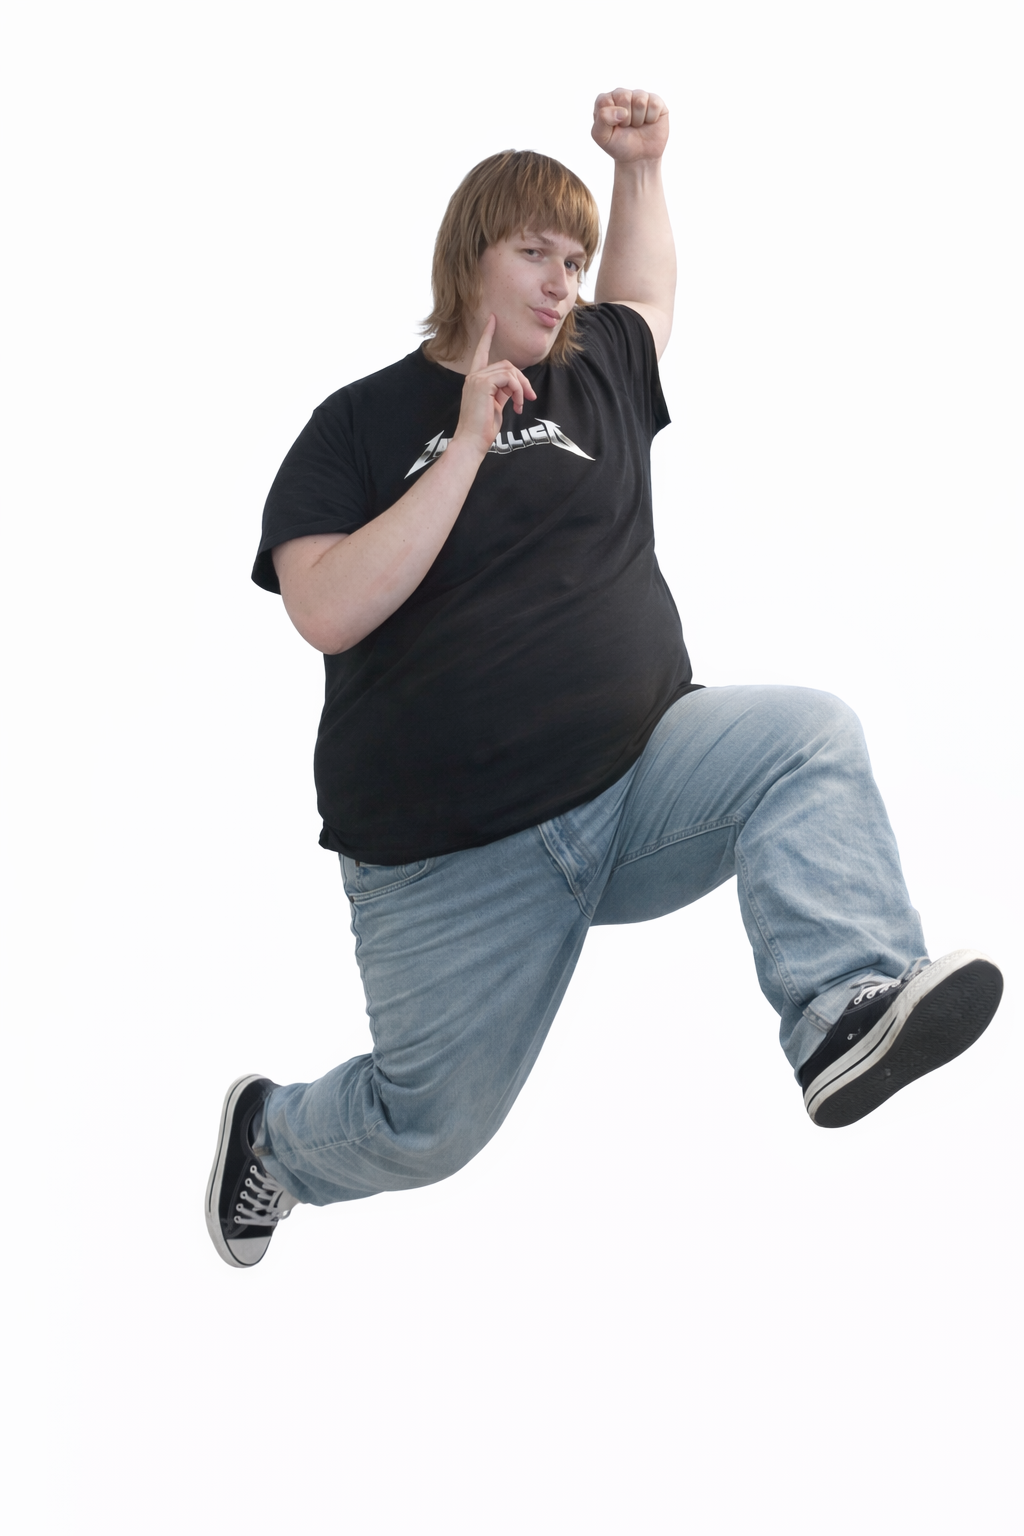
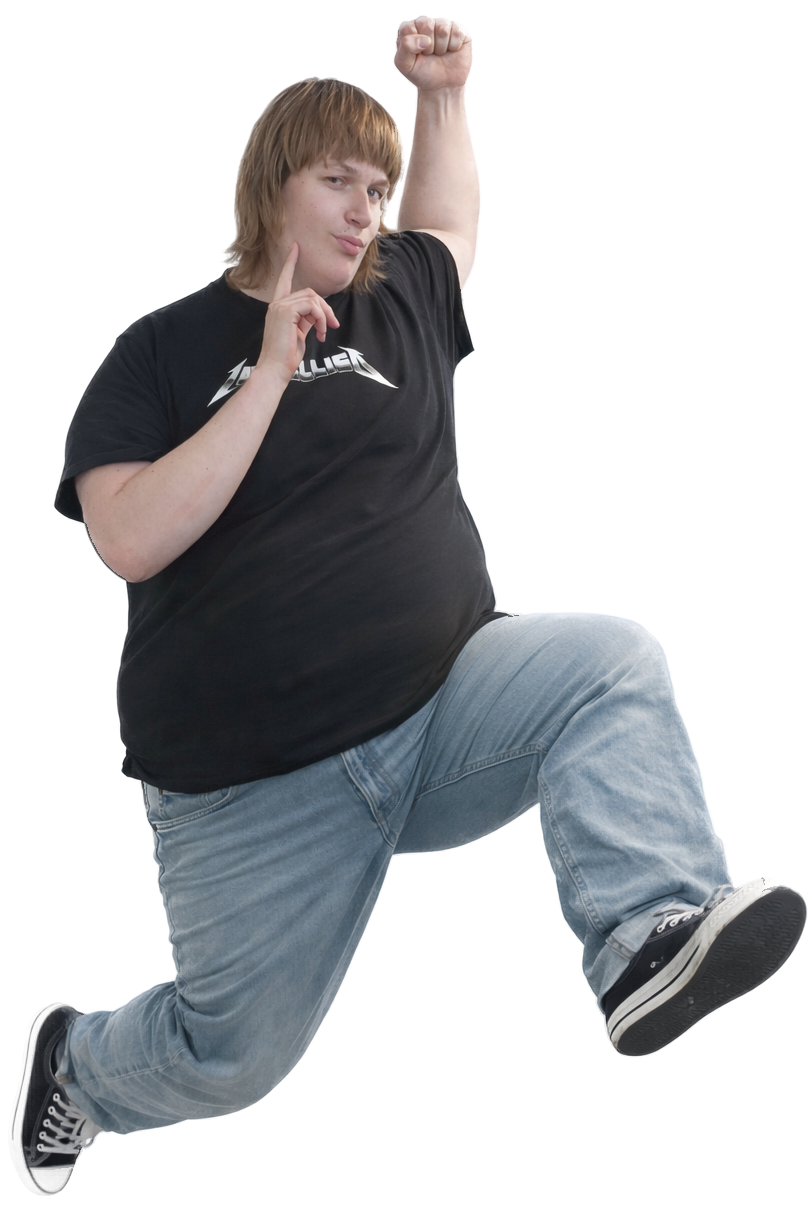
fiksa noen bilder, startet på å gjør sånn at når man hopper så endrer bildet til et hoppebilde

diff --git a/states/game_state.py b/states/game_state.py
@@ -20,7 +20,7 @@ class GameState(BaseState):
         karakter_bilder = { # fikk ide fra chat å bruke ordbok
             "herman": ("assets/Herman_karakter.png", 100, 100),
             "doomfist": ("assets/Doomfist.png", 100, 100),
-            "birk":  ("assets/Birk3.png", 150, 150),
+            "birk":  ("assets/Birk_bein.png", 150, 150),
             }
         
         karakter1 = persistent.get("karakter_p1", "luigi")
@@ -148,7 +148,7 @@ class Player(GameObject):
         
         self.på_bakken = False
 
-        for platform in [self.game.spill_bane1, self.game.spill_bane2]:
+        for platform in [self.game.spill_bane1, self.game.spill_bane2]: # hjelp fra chat men skrevet selv
             if self.rect.colliderect(platform):
                 if self.vy >= 0:
                     self.rect.bottom = platform.top
@@ -159,3 +159,9 @@ class Player(GameObject):
                 elif self.vy < 0:
                     self.rect.top = platform.bottom
                     self.vy = 0
+        self.update_image()
+"""
+    def update_image(self): # https://www.youtube.com/watch?v=u7XpkyemKTo for insipirasjon/guide, denne også 
+        if self.på_bakken == False:
+            self.bilde = pygame.image.load("assets/Birk_hopp.png")
+"""

diff --git a/states/menu_state.py b/states/menu_state.py
@@ -11,7 +11,7 @@ class MenuState(BaseState):
         super().__init__()
         self.bakrund_load =  pygame.image.load("assets/main_menu_bilde.png").convert()
         self.screen = pygame.display.set_mode((0, 0),pygame.RESIZABLE)
-        self.bakrund = pygame.transform.scale(self.bakrund_load, (self.screen))
+        self.bakrund = pygame.transform.scale(self.bakrund_load, (1370, 700))
         self.start_box = pygame.Rect(0, 62, 637, 343) #x, y, bredde 590, høyde
 
     def start_musikk(self):
